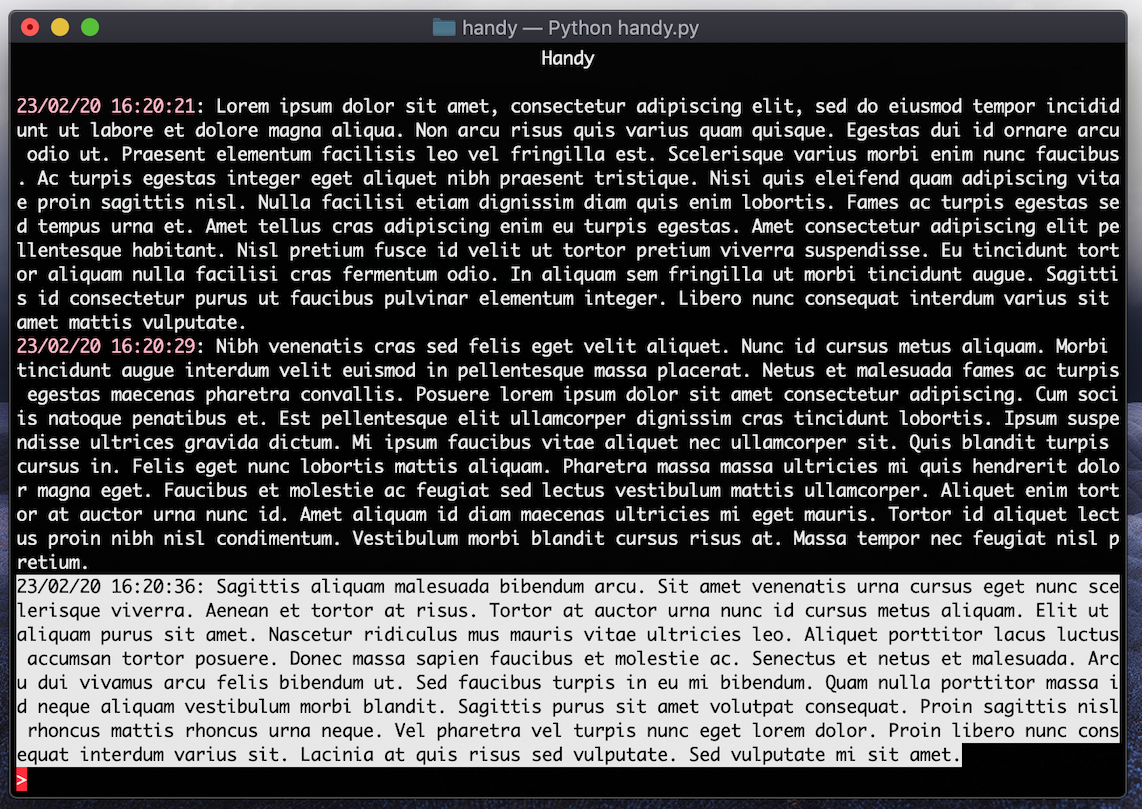
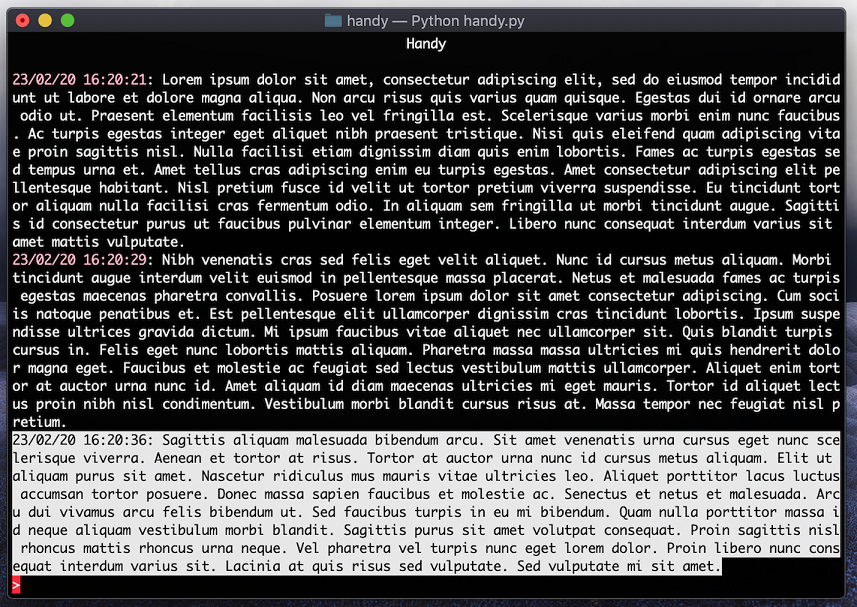
added support for different file nammes

Changed region(s): [[0.0, 0.1186, 0.9708, 0.9786], [0.4551, 0.0593, 0.5158, 0.089], [0.5158, 0.0297, 0.5461, 0.0593]]

diff --git a/handy.py b/handy.py
@@ -2,10 +2,12 @@ from blessed import Terminal
 from datetime import datetime
 import math
 import re 
+import sys
 
 term = Terminal()
 command_history = []
 cur_input = ""
+handy_name = "handy.txt"
 
 # only redraws cur input to prevent flickering, triggers full redraw if curinput needs to grow to another line
 def redraw_curinput(term, last_linecount):
@@ -72,7 +74,7 @@ def redraw(term):
         if cursor_y <= 0:
             break
 
-    print(term.move_y(0) + term.center("Handy"), flush=False)
+    print(term.move_y(0) + term.center(handy_name.replace(".txt","").capitalize()), flush=False)
 
     redraw_curinput(term, input_lines)
 
@@ -290,7 +292,15 @@ def main():
     last_size_y = 0
     last_curinput_linecount = 1
 
-    with open("handy.txt", "a+") as handy_file:
+    global handy_name
+    if len(sys.argv) -1 > 0:
+        handy_name = sys.argv[1]
+
+    if handy_name.endswith(".txt") == False:
+        handy_name+=".txt"
+
+
+    with open(handy_name, "a+") as handy_file:
         resume_session(handy_file)
         try:
             with term.fullscreen(), term.cbreak():

diff --git a/README.md b/README.md
@@ -1,24 +1,25 @@
-# handy
-This is a script that I've started to keep running while I work on pretty much anything. Mostly, it serves the place of a paper log book, or lab notebook, that I use to document my thought processes as I work through problems. It's also useful to keeping track of bash one liners or command line strings that I want to use in the future (ie: the command line to build a specific config of a UE4 project). 
+# Handy
+## A Utility And Logbook Script For Programmers
 
-I keep a copy of this script in every project file, so each project has it's own handy.txt. There's no way to rename this file (or move where the script writes to), only because I haven't yet wanted to.
+This is a script meant to log stream of consciousness thoughts. In practice, I use this is a sort of lab-notebook for software and blog projects (and you can too!). 
 
-All input to the script is appended to a log file (that the script creates) called "handy.txt." This input is timestamped for easy searching through later. 
+To start, just launch handy with no arguments and start typing. It will create a file called handy.txt and start appending what you write as time stamped lines in that text file. The next time you launch handy, it will read in this file and pick up right where you left off. 
+
+It supports Windows and Mac (it might run on Linux too, but I don't have a linux box to check), and looks like this: 
 
 ![screenshot showing how it handles entering basic text strings](https://github.com/khalladay/handy/blob/master/example_images/text_example.png?raw=true)
 
-## Other Features
-My plan is to add more features to this script as I discover common tasks that seem like a good fit. Here's a list of what I've added so far:
+## Additional Features
+In addition to logging text, Handy also supports a number of utility features that I added to make my life easier. Here they are: 
 
-### Radix Conversion
-If you enter a hex, decimal, or binary string, handy will convert it to the other two radixes for you: 
+* [Addition and Subtraction](#Addition-and-Subtraction)
+* [Bit Shifting](#bit-shifting)
+* [Radix Conversion](#radix-conversion)
+* [Two's Complement Conversion](#2s-complement-conversion)
+* [Ascii Values](#ascii-value-for-single-char)
+* [Inline Comments](#inline-comments)
 
-![screenshot showing how radix conversion works](https://github.com/khalladay/handy/blob/master/example_images/radix_conversion.png?raw=true)
-
-### 2's Complement Conversion
-If you enter a negative integer, it will be represented as a 2's complement hex / binary string when converted. This only works within the range of a 32 bit signed int. This conversion only works from negative int -> Hex / Binary, you currently can't input a hex value and convert it to an int assuming it's a 2's complement val. 
-
-![screenshot showing how converting a negative int to 2's complement hex/bin strings works](https://github.com/khalladay/handy/blob/master/example_images/negative_int.png?raw=true))
+---
 
 ### Addition/Subtraction
 You can also do simple addition / subtraction between two numbers of different radixes (or the same radix, if you want to).
@@ -29,6 +30,16 @@ You can also do simple addition / subtraction between two numbers of different r
 Similar to above, you can compute the result of a bit shift operation using "<<" and ">>" operators between two numeric values. One potentially unexpected behavior with this is that if you right-shift a binary value, handy will left pad the result with zeroes so the result displayed has the same length as the original input being shifted. This behavior does not apply to left shifts (which will add digits to the binary value). 
 
 ![screenshot showing how bit shifting works](https://github.com/khalladay/handy/blob/master/example_images/bit_shift.png?raw=true)
+
+### Radix Conversion
+If you enter a hex, decimal, or binary string, handy will convert it to the other two radixes for you: 
+
+![screenshot showing how radix conversion works](https://github.com/khalladay/handy/blob/master/example_images/radix_conversion.png?raw=true)
+
+### 2s Complement Conversion
+If you enter a negative integer, it will be represented as a 2's complement hex / binary string when converted. This only works within the range of a 32 bit signed int. This conversion only works from negative int -> Hex / Binary, you currently can't input a hex value and convert it to an int assuming it's a 2's complement val. 
+
+![screenshot showing how converting a negative int to 2's complement hex/bin strings works](https://github.com/khalladay/handy/blob/master/example_images/negative_int.png?raw=true))
 
 ### Ascii Value For Single Char
 Entering a single char, wrapped in single quotes (ie: 'A') will convert it to an ASCII byte value. You don't need to escape any value in between the leading and trailing quotes (so ''' is valid, as is '"'). Entering more than 1 char in between quotes won't work, and will be treated as a plain string. 
@@ -43,4 +54,4 @@ With both of the above, if you want to append a comment to the log after the con
 This is just to aid in readability. You can omit the "//" and just start writing a string as well, it just formats differently.
 
 ## Required Disclaimer
-My programmer ego requires that I caveat this with the disclaimer that I'm aware that this is truly awful python. 
+My programmer ego requires that I caveat this with the disclaimer that I'm aware that this is truly awful python. I don't often write python, so it's probably not going to get better either. 
